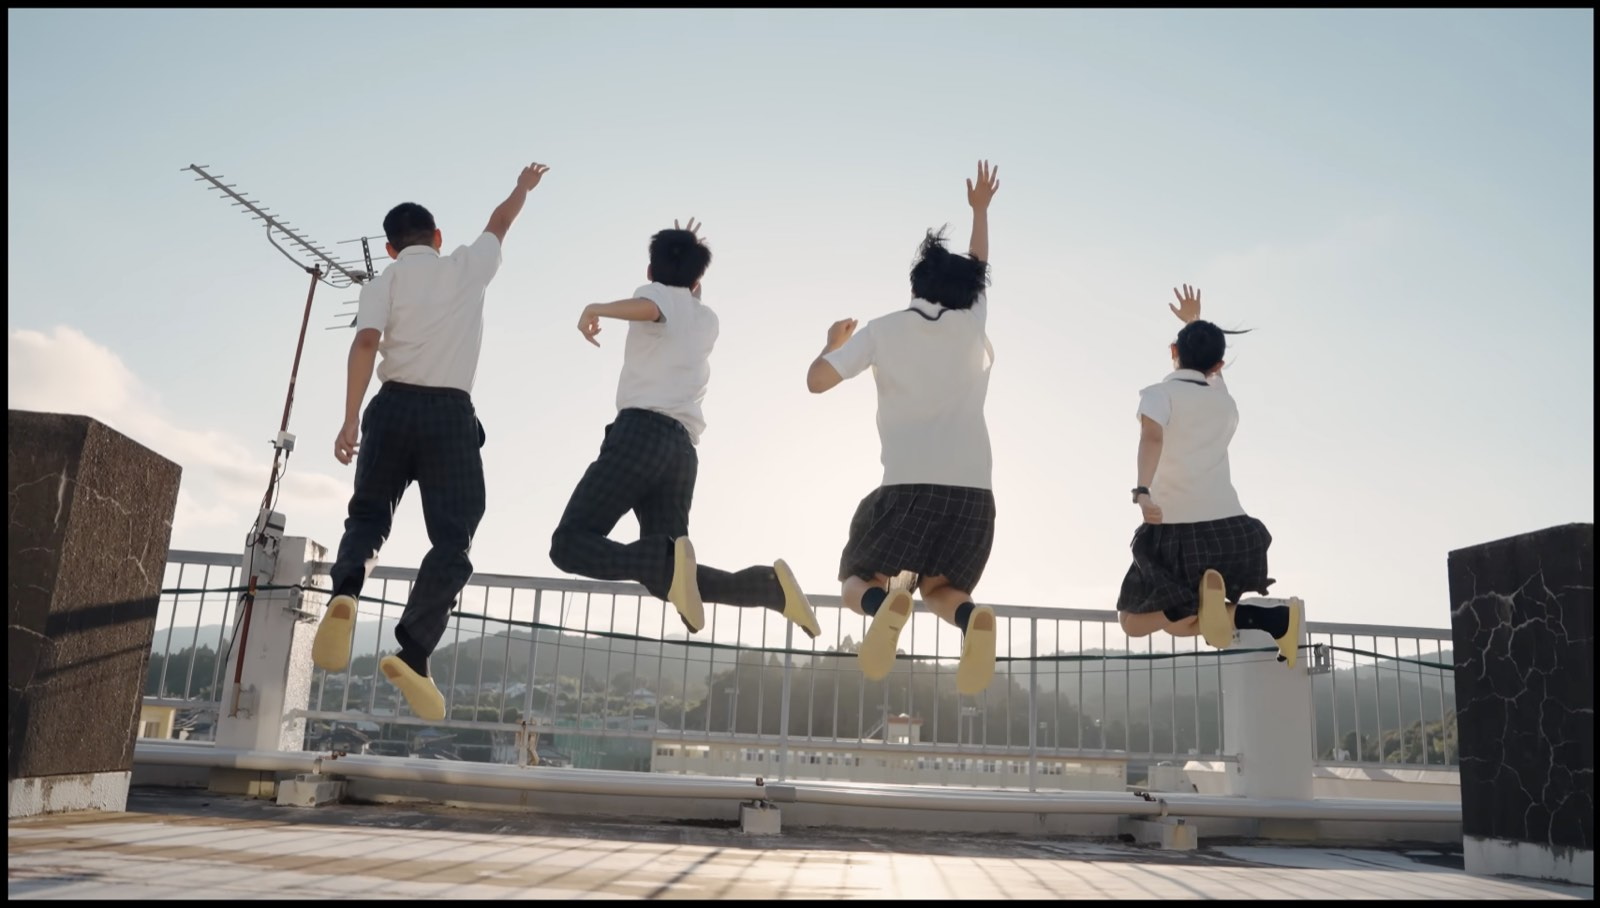
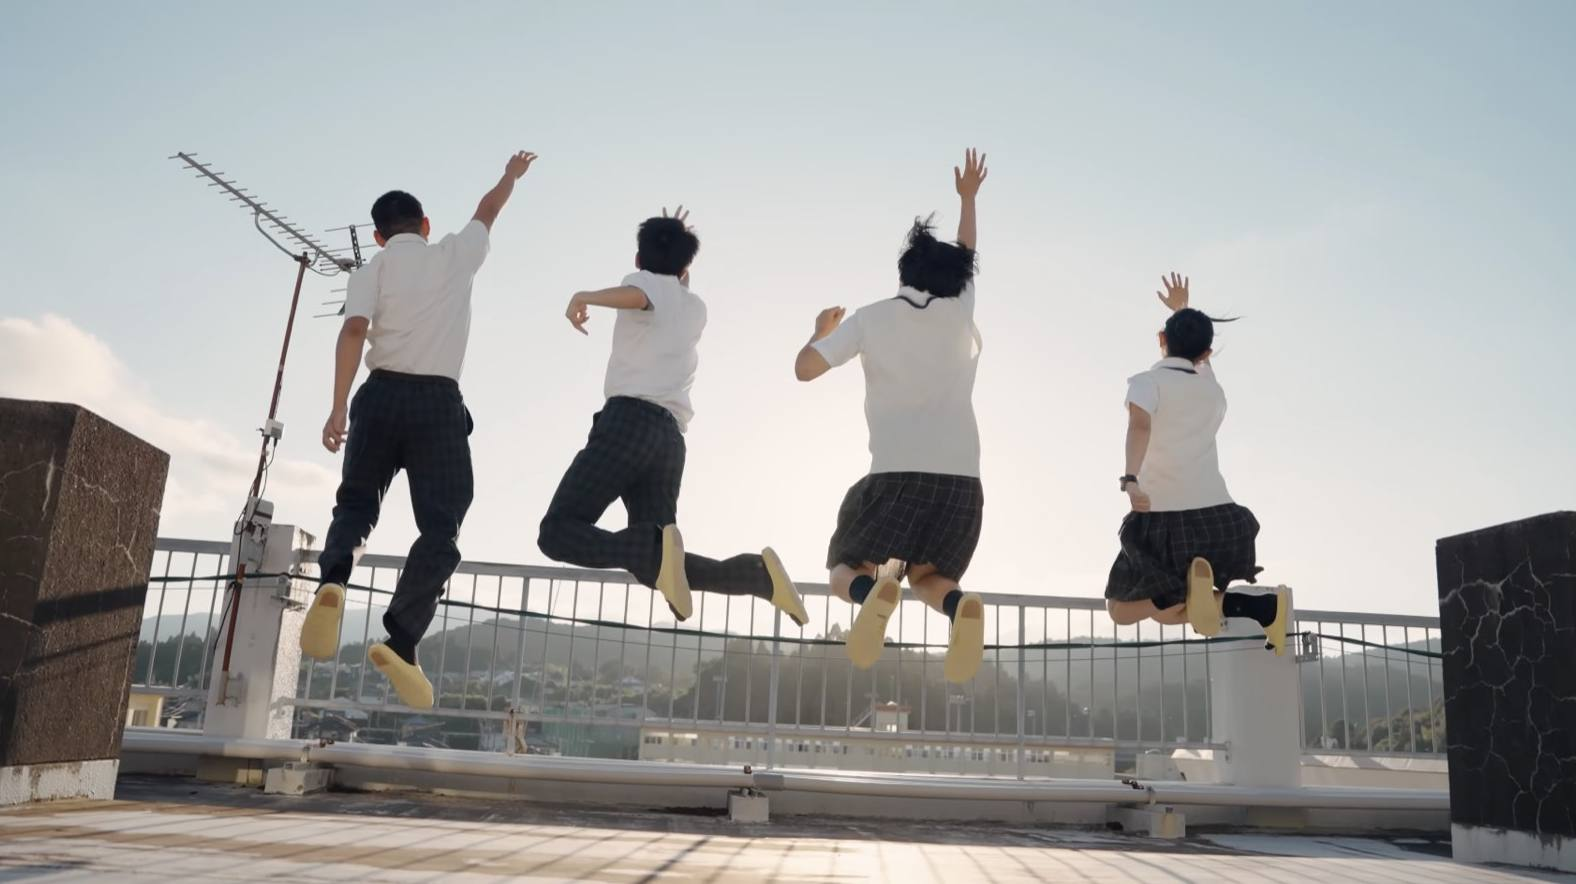
写真の表示崩れと帯を修正、連絡先を変更
- 画像が枠からはみ出して切れる不具合を修正（枠にぴったり収まるように）
- CANVAS背景と樟南PVの画像に残っていた黒帯を削除
- SNSアカウントのアイコンを円の内側だけに切り直し（バッジや縁が入らないように）
- お問い合わせ先を hanazono@mikage.info に変更

diff --git a/index.html b/index.html
@@ -54,8 +54,9 @@ a{color:inherit}
 .btn.ghost{background:transparent;color:var(--ink)}
 .btn.ghost:hover{background:var(--ink);color:#fff}
 .btn::after{content:"→"}
-.ph img,.img-fit{width:100%;height:100%;object-fit:cover;display:block}
-.ph{overflow:hidden;background:repeating-linear-gradient(45deg,var(--bg-2) 0 12px,#ECE4D6 12px 24px);border-radius:var(--radius);display:grid;place-items:center;color:#A99D90;font-size:13px;font-family:var(--maru);text-align:center}
+.ph img{position:absolute;inset:0;width:100%;height:100%;object-fit:cover;display:block}
+.img-fit{width:100%;height:100%;object-fit:cover;display:block}
+.ph{position:relative;overflow:hidden;background:repeating-linear-gradient(45deg,var(--bg-2) 0 12px,#ECE4D6 12px 24px);border-radius:var(--radius);display:grid;place-items:center;color:#A99D90;font-size:13px;font-family:var(--maru);text-align:center}
 .tag{display:inline-block;font-family:var(--maru);font-weight:700;font-size:12px;padding:1px 12px;border-radius:999px;background:var(--bg-2);color:var(--ink-2)}
 .todo{background:#FFF3B0;padding:0 4px;border-radius:3px;color:var(--ink)}
 .shippo-deco{position:absolute;background:var(--shippo-line);background-size:40px;opacity:.13;pointer-events:none;border-radius:50%}
@@ -761,7 +762,7 @@ footer a:hover{color:#fff}
         <tr><th>所在地</th><td>〒650-0004<br>兵庫県神戸市中央区中山手通7丁目7-6</td></tr>
         <tr><th>設立</th><td>2024年9月30日</td></tr>
         <tr><th>事業内容</th><td>SNS運用事業<br>動画制作事業<br>教育プログラム「CANVAS」の企画・運営</td></tr>
-        <tr><th>お問い合わせ</th><td><a href="mailto:yoshiki@mikage930.com">yoshiki@mikage930.com</a></td></tr>
+        <tr><th>お問い合わせ</th><td><a href="mailto:hanazono@mikage.info">hanazono@mikage.info</a></td></tr>
       </table>
       <div class="map">
         <iframe src="https://maps.google.com/maps?q=%E3%80%92650-0004%20%E5%85%B5%E5%BA%AB%E7%9C%8C%E7%A5%9E%E6%88%B8%E5%B8%82%E4%B8%AD%E5%A4%AE%E5%8C%BA%E4%B8%AD%E5%B1%B1%E6%89%8B%E9%80%9A7%E4%B8%81%E7%9B%AE7-6&z=16&output=embed" title="株式会社みかげ 所在地の地図" loading="lazy" referrerpolicy="no-referrer-when-downgrade" allowfullscreen></iframe>
